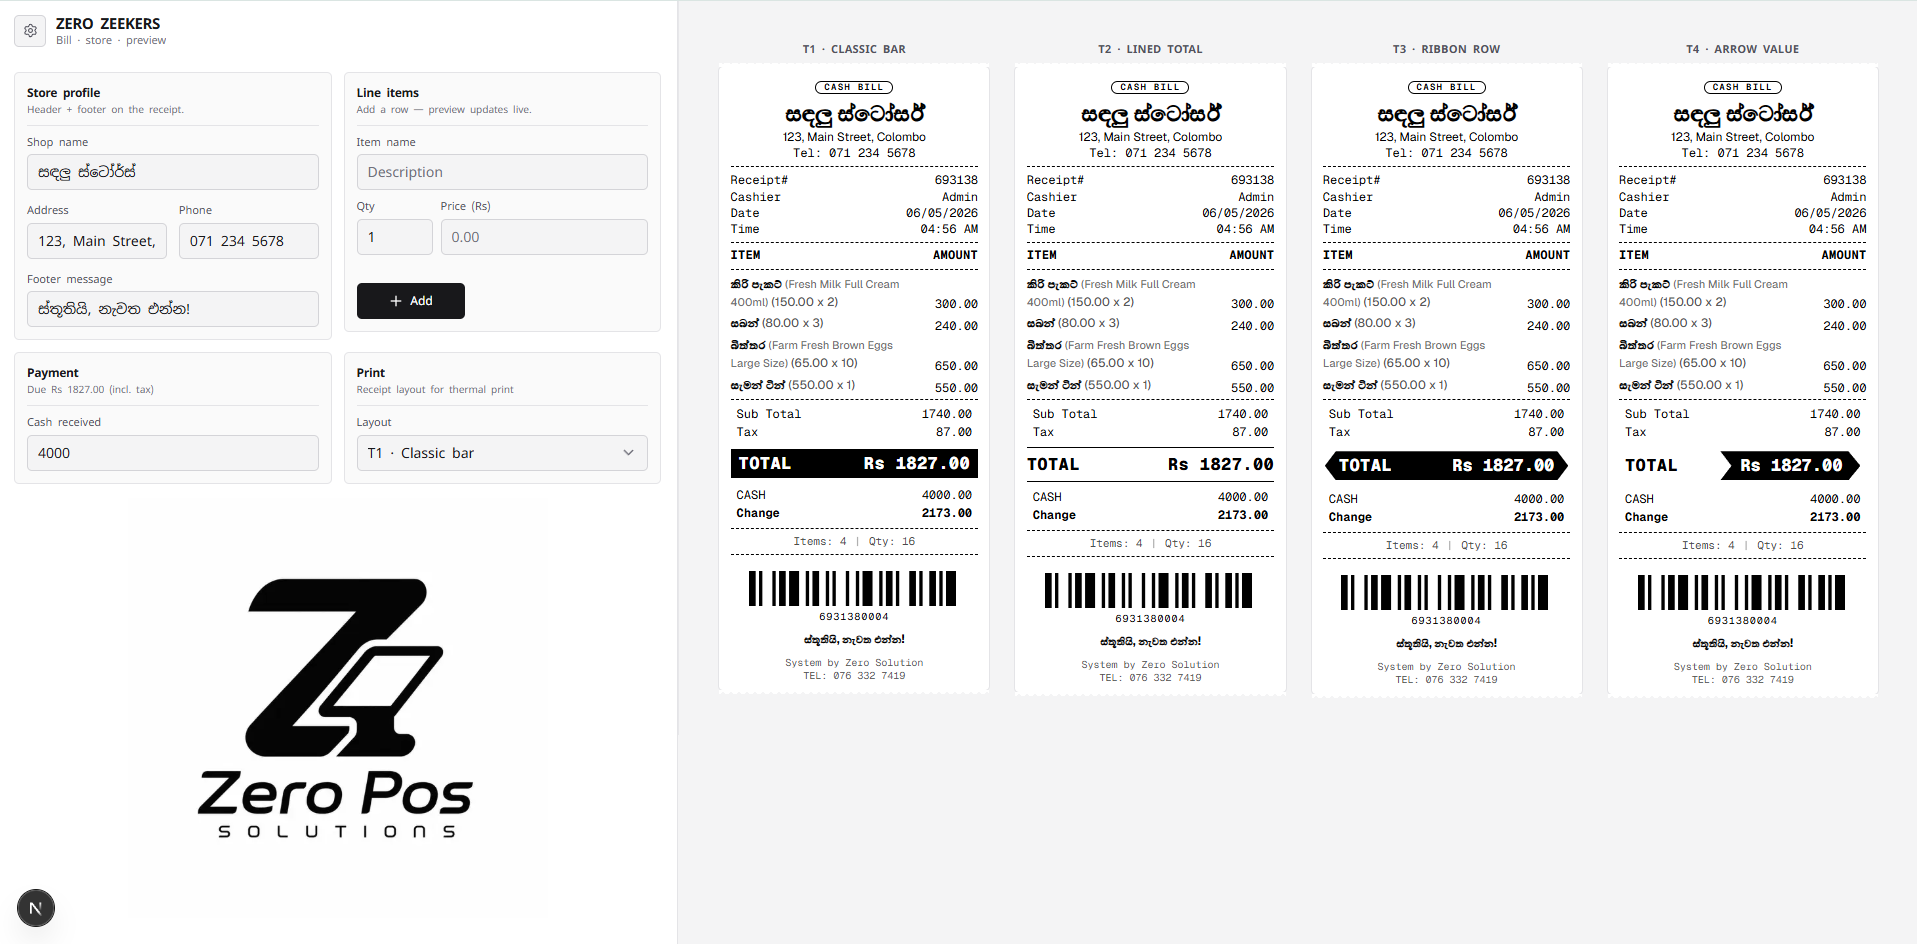
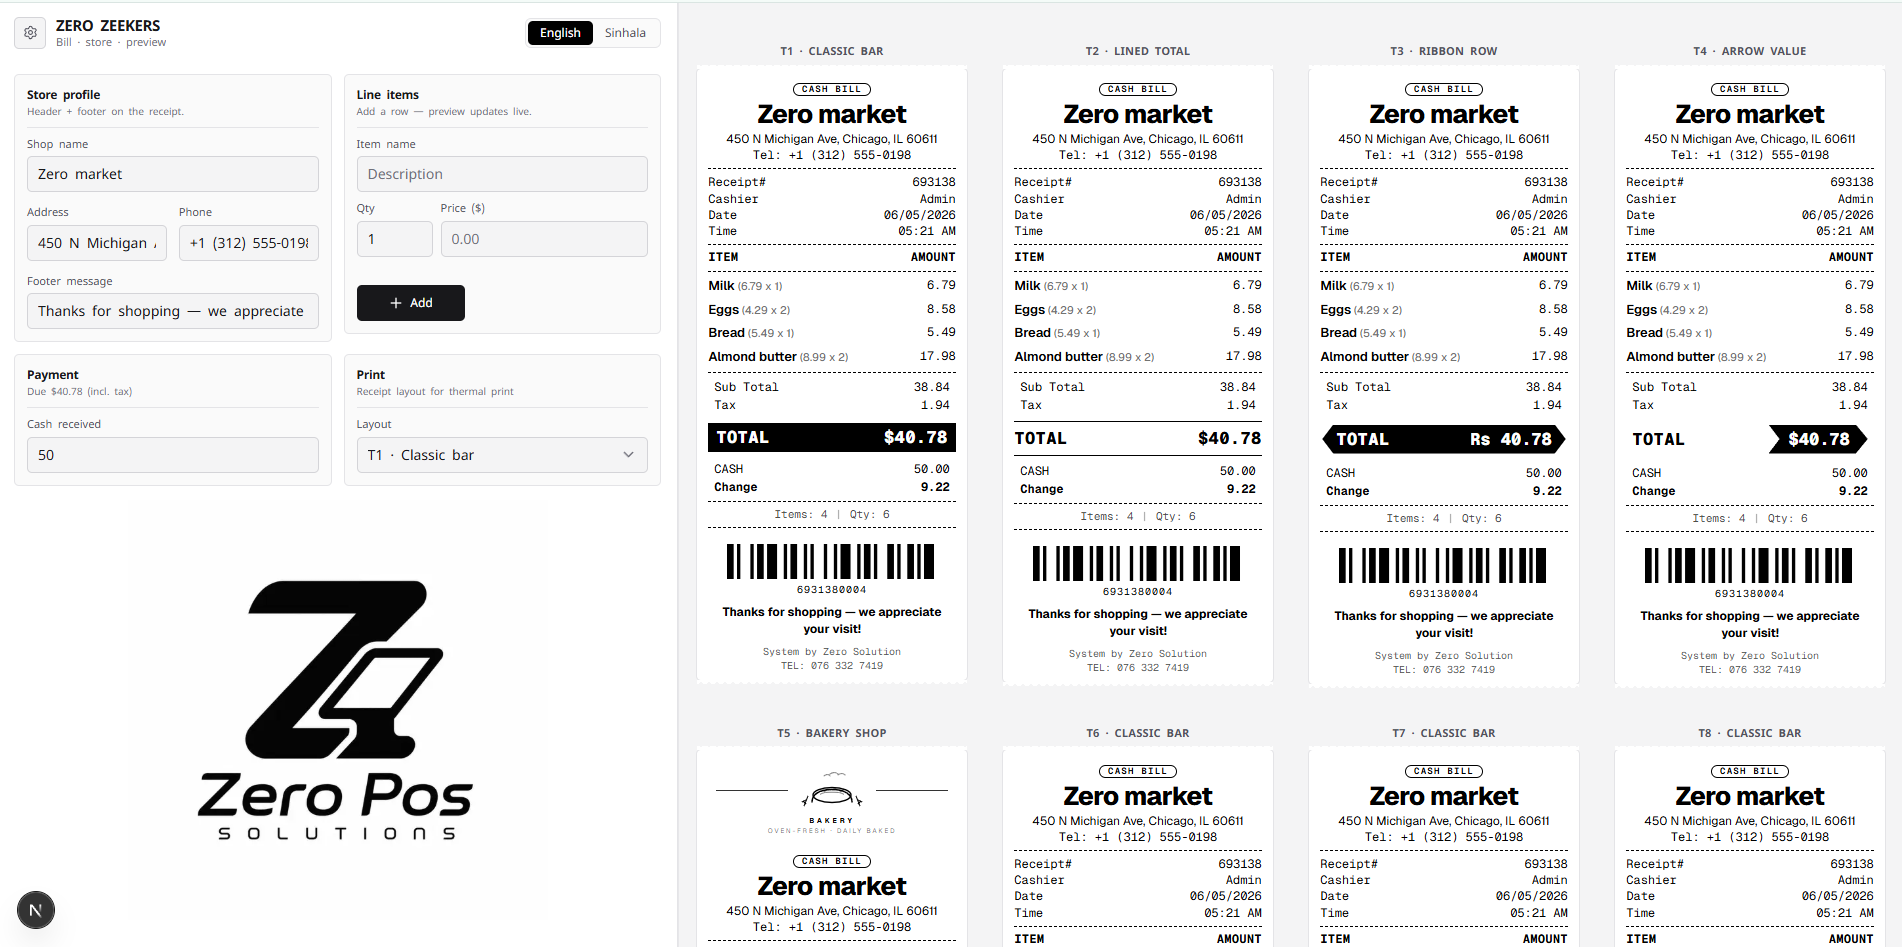
Update print layout option "type5" to "Bakery shop" and integrate new BillContentBakery component in BillingApp and ReceiptPreview for enhanced receipt rendering. Expand PreviewVariant to include "bakery" for improved user experience.

diff --git a/components/billing/bill-content-bakery.tsx b/components/billing/bill-content-bakery.tsx
@@ -1,0 +1,186 @@
+import type { BillContentProps } from "@/components/billing/bill-content";
+import { Barcode } from "@/components/billing/barcode";
+import { ReceiptItemRow } from "@/components/billing/receipt-item-row";
+import { formatMoneyTotal } from "@/utils/billing";
+
+const Dashed = () => (
+  <div className="receipt-section" style={{ borderTop: "1.5px dashed #000", margin: "5px 0" }} />
+);
+
+/** Decorative loaf + wheat — thermal-safe black strokes only */
+function BakeryHeaderMark() {
+  return (
+    <svg
+      className="mx-auto block h-[42px] w-[72px]"
+      viewBox="0 0 72 42"
+      fill="none"
+      xmlns="http://www.w3.org/2000/svg"
+      aria-hidden
+      focusable="false"
+    >
+      {/* Steam */}
+      <path
+        d="M28 6c2-2 5-2 6 0M34 4c2.5-2 6-2 8 0M42 5c2-2 5.5-2 7 0"
+        stroke="currentColor"
+        strokeWidth="1.1"
+        strokeLinecap="round"
+        opacity="0.45"
+      />
+      {/* Loaf */}
+      <path
+        d="M16 32c0-7 6.5-12.5 20-12.5S56 25 56 32"
+        stroke="currentColor"
+        strokeWidth="1.5"
+        strokeLinecap="round"
+      />
+      <ellipse cx="36" cy="25" rx="19" ry="7.5" stroke="currentColor" strokeWidth="1.4" />
+      <path
+        d="M24 24.5c2-1.5 5-2.2 12-2.2s10 .7 12 2.2"
+        stroke="currentColor"
+        strokeWidth="1"
+        strokeLinecap="round"
+        opacity="0.45"
+      />
+      {/* Slashes (baguette) */}
+      <path d="M28 22l4-3M36 20l4-2M44 22l4-3" stroke="currentColor" strokeWidth="0.9" strokeLinecap="round" opacity="0.55" />
+      {/* Wheat stems */}
+      <path d="M8 36l4-10M10 34l-3-3M6 32l4-2" stroke="currentColor" strokeWidth="1" strokeLinecap="round" />
+      <path d="M64 36l-4-10M62 34l3-3M66 32l-4-2" stroke="currentColor" strokeWidth="1" strokeLinecap="round" />
+    </svg>
+  );
+}
+
+/** Type 5 — bakery-themed header with illustrated mark; body matches classic thermal layout */
+export const BillContentBakery = ({
+  receiptNo,
+  billDate,
+  billTime,
+  items,
+  shopDetails,
+  subTotal,
+  tax,
+  total,
+  cashReceived,
+  currency = "lkr",
+}: BillContentProps) => {
+  const barcodeValue = `${receiptNo}000${items.length}`;
+  const totalQty = items.reduce((sum, item) => sum + item.qty, 0);
+  const change = Math.max(0, cashReceived - total);
+
+  return (
+    <div className="receipt-content font-mono text-[12px] leading-[1.35] text-black">
+      <div className="receipt-section text-center">
+        <div className="relative mx-auto mb-2 max-w-[17rem] px-2 py-2 text-black">
+          <div className="flex items-center justify-center gap-2">
+            <span className="inline-block h-px min-w-[1.25rem] flex-1 bg-black opacity-80" aria-hidden />
+            <div className="shrink-0 text-black">
+              <BakeryHeaderMark />
+            </div>
+            <span className="inline-block h-px min-w-[1.25rem] flex-1 bg-black opacity-80" aria-hidden />
+          </div>
+          <p className="mt-1 font-sans text-[7px] font-bold uppercase tracking-[0.42em] text-black">
+            Bakery
+          </p>
+          <p className="mt-0.5 font-sans text-[6.5px] uppercase tracking-[0.28em] text-black/55">
+            Oven-fresh · Daily baked
+          </p>
+        </div>
+
+        <div className="mx-auto mb-1 inline-flex items-center rounded-full border border-black px-2 py-px text-[9px] font-semibold uppercase tracking-[0.14em] leading-none">
+          Cash Bill
+        </div>
+        <h1 className="font-sans text-[26px] font-extrabold leading-[1.12] tracking-tight">{shopDetails.name}</h1>
+        <p className="mt-0.5 font-sans text-[12px] leading-[1.35]">{shopDetails.address}</p>
+        <p className="text-[12px] leading-[1.35]">Tel: {shopDetails.phone}</p>
+      </div>
+
+      <Dashed />
+
+      <div className="receipt-section text-[12px] leading-[1.35]">
+        <div className="flex justify-between">
+          <span>Receipt#</span>
+          <span className="font-mono tabular-nums">{receiptNo}</span>
+        </div>
+        <div className="flex justify-between">
+          <span>Cashier</span>
+          <span>Admin</span>
+        </div>
+        <div className="flex justify-between">
+          <span>Date</span>
+          <span className="font-mono tabular-nums">{billDate}</span>
+        </div>
+        <div className="flex justify-between">
+          <span>Time</span>
+          <span className="font-mono tabular-nums">{billTime}</span>
+        </div>
+      </div>
+
+      <Dashed />
+
+      <div className="receipt-section mb-1 flex text-[12px] font-bold uppercase tracking-wide leading-[1.3]">
+        <span className="flex-1">Item</span>
+        <span className="w-16 text-right">Amount</span>
+      </div>
+      <Dashed />
+
+      <div className="min-h-[40px]">
+        {items.length === 0 ? (
+          <div className="py-2 text-center italic">No items</div>
+        ) : (
+          items.map((item) => <ReceiptItemRow key={item.id} item={item} />)
+        )}
+      </div>
+
+      <Dashed />
+
+      <div className="text-[12px] leading-[1.35]">
+        <div className="receipt-row flex justify-between gap-2 px-1.5 py-px">
+          <span className="flex-1 font-normal">Sub Total</span>
+          <span className="w-24 text-right font-mono tabular-nums font-normal">{subTotal.toFixed(2)}</span>
+        </div>
+        <div className="receipt-row flex justify-between gap-2 px-1.5 py-px">
+          <span className="flex-1 font-normal">Tax</span>
+          <span className="w-24 text-right font-mono tabular-nums font-normal">{tax.toFixed(2)}</span>
+        </div>
+        <div
+          className="total-highlight my-2 flex justify-between font-extrabold leading-none text-[17px] text-white tracking-wide"
+          style={{ backgroundColor: "#000", color: "#fff", padding: "6px 8px", WebkitPrintColorAdjust: "exact", printColorAdjust: "exact" }}
+        >
+          <span className="flex-1">TOTAL</span>
+          <span className="w-27 text-right font-mono tabular-nums text-white">
+            {formatMoneyTotal(total, currency)}
+          </span>
+        </div>
+        <div className="receipt-row flex justify-between gap-2 px-1.5 py-px font-normal">
+          <span className="flex-1">CASH</span>
+          <span className="w-24 text-right font-mono tabular-nums">{cashReceived.toFixed(2)}</span>
+        </div>
+        <div className="receipt-row flex justify-between gap-2 px-1.5 py-px font-bold">
+          <span className="flex-1">Change</span>
+          <span className="w-24 text-right font-mono tabular-nums">{change.toFixed(2)}</span>
+        </div>
+      </div>
+
+      <Dashed />
+
+      <div className="text-center text-[11px] leading-[1.35] text-black/70">
+        <span>Items: {items.length}</span>
+        <span className="mx-2 opacity-70">|</span>
+        <span>Qty: {totalQty}</span>
+      </div>
+
+      <Dashed />
+
+      <Barcode code={barcodeValue} />
+
+      <div className="mt-2 text-center font-sans text-[12px] font-bold leading-snug">
+        <p>{shopDetails.thankYouMessage}</p>
+      </div>
+
+      <div className="mt-2 text-center text-[10px] leading-[1.35] text-black/65">
+        <span>System by Zero Solution</span>
+        <div>TEL: 076 332 7419</div>
+      </div>
+    </div>
+  );
+};

diff --git a/components/billing/receipt-preview.tsx b/components/billing/receipt-preview.tsx
@@ -2,6 +2,7 @@ import { BillContent } from "@/components/billing/bill-content";
 import { BillContentAlt } from "@/components/billing/bill-content-alt";
 import { BillContentType3 } from "@/components/billing/bill-content-type3";
 import { BillContentType4 } from "@/components/billing/bill-content-type4";
+import { BillContentBakery } from "@/components/billing/bill-content-bakery";
 import type { BillingCurrency, CartItem, ShopDetails } from "@/types/billing";
 
 type ReceiptPreviewProps = {
@@ -17,14 +18,14 @@ type ReceiptPreviewProps = {
   currency: BillingCurrency;
 };
 
-type PreviewVariant = "classic" | "lined" | "ribbon" | "arrow";
+type PreviewVariant = "classic" | "lined" | "ribbon" | "arrow" | "bakery";
 
 const PREVIEW_COLUMNS: readonly { id: string; label: string; variant: PreviewVariant }[] = [
   { id: "t1", label: "T1 · Classic bar", variant: "classic" },
   { id: "t2", label: "T2 · Lined total", variant: "lined" },
   { id: "t3", label: "T3 · Ribbon row", variant: "ribbon" },
   { id: "t4", label: "T4 · Arrow value", variant: "arrow" },
-  { id: "t5", label: "T5 · Classic bar", variant: "classic" },
+  { id: "t5", label: "T5 · Bakery shop", variant: "bakery" },
   { id: "t6", label: "T6 · Classic bar", variant: "classic" },
   { id: "t7", label: "T7 · Classic bar", variant: "classic" },
   { id: "t8", label: "T8 · Classic bar", variant: "classic" },
@@ -65,6 +66,8 @@ export const ReceiptPreview = ({
         return <BillContentType3 {...shared} />;
       case "arrow":
         return <BillContentType4 {...shared} />;
+      case "bakery":
+        return <BillContentBakery {...shared} />;
       default: {
         const _exhaustive: never = variant;
         return _exhaustive;

diff --git a/features/billing/billing-app.tsx b/features/billing/billing-app.tsx
@@ -10,6 +10,7 @@ import { BillContent } from "@/components/billing/bill-content";
 import { BillContentAlt } from "@/components/billing/bill-content-alt";
 import { BillContentType3 } from "@/components/billing/bill-content-type3";
 import { BillContentType4 } from "@/components/billing/bill-content-type4";
+import { BillContentBakery } from "@/components/billing/bill-content-bakery";
 import { PrintHint } from "@/components/billing/print-hint";
 import { PrintLayoutSelect, type PrintLayoutValue } from "@/components/billing/print-layout-select";
 import { ReceiptPreview } from "@/components/billing/receipt-preview";
@@ -320,6 +321,23 @@ export const BillingApp = ({
     if (printType === "type4") {
       return (
         <BillContentType4
+          receiptNo={receiptNo}
+          billDate={initialBillDate}
+          billTime={initialBillTime}
+          items={items}
+          shopDetails={shopDetails}
+          subTotal={subTotal}
+          tax={taxAmount}
+          total={total}
+          cashReceived={cashReceivedValue}
+          currency={billingCurrency}
+        />
+      );
+    }
+
+    if (printType === "type5") {
+      return (
+        <BillContentBakery
           receiptNo={receiptNo}
           billDate={initialBillDate}
           billTime={initialBillTime}

diff --git a/components/billing/print-layout-select.tsx b/components/billing/print-layout-select.tsx
@@ -22,7 +22,7 @@ const OPTIONS: readonly { value: PrintLayoutValue; label: string }[] = [
   { value: "type2", label: "T2 · Lined total" },
   { value: "type3", label: "T3 · Ribbon row" },
   { value: "type4", label: "T4 · Arrow value" },
-  { value: "type5", label: "T5 · Classic bar" },
+  { value: "type5", label: "T5 · Bakery shop" },
   { value: "type6", label: "T6 · Classic bar" },
   { value: "type7", label: "T7 · Classic bar" },
   { value: "type8", label: "T8 · Classic bar" },
